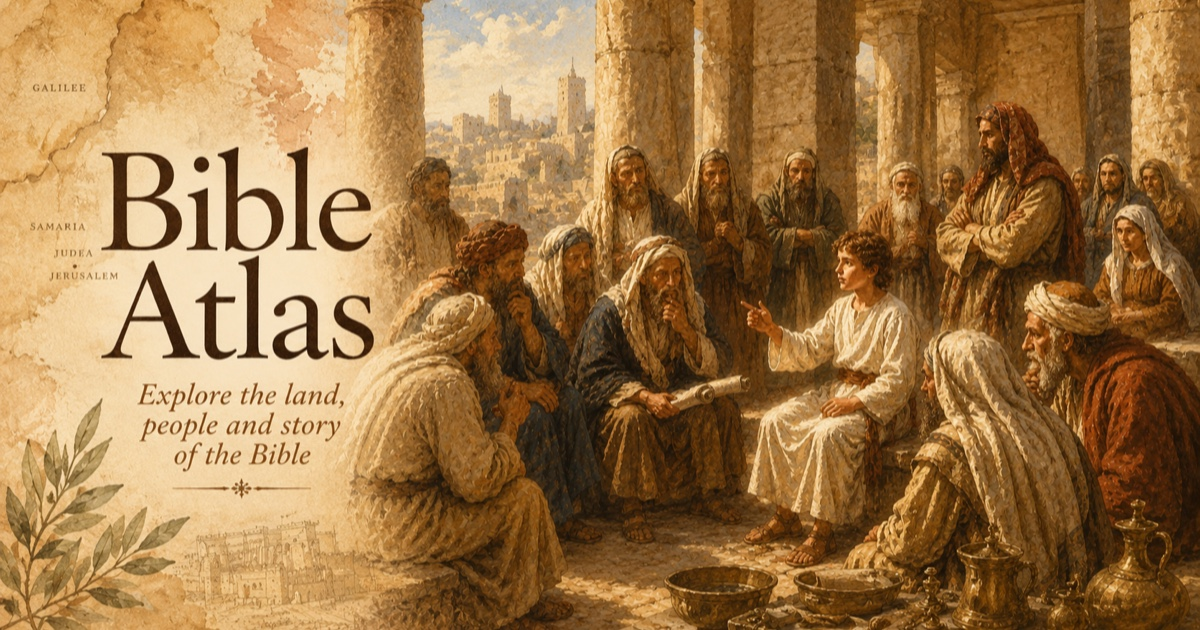
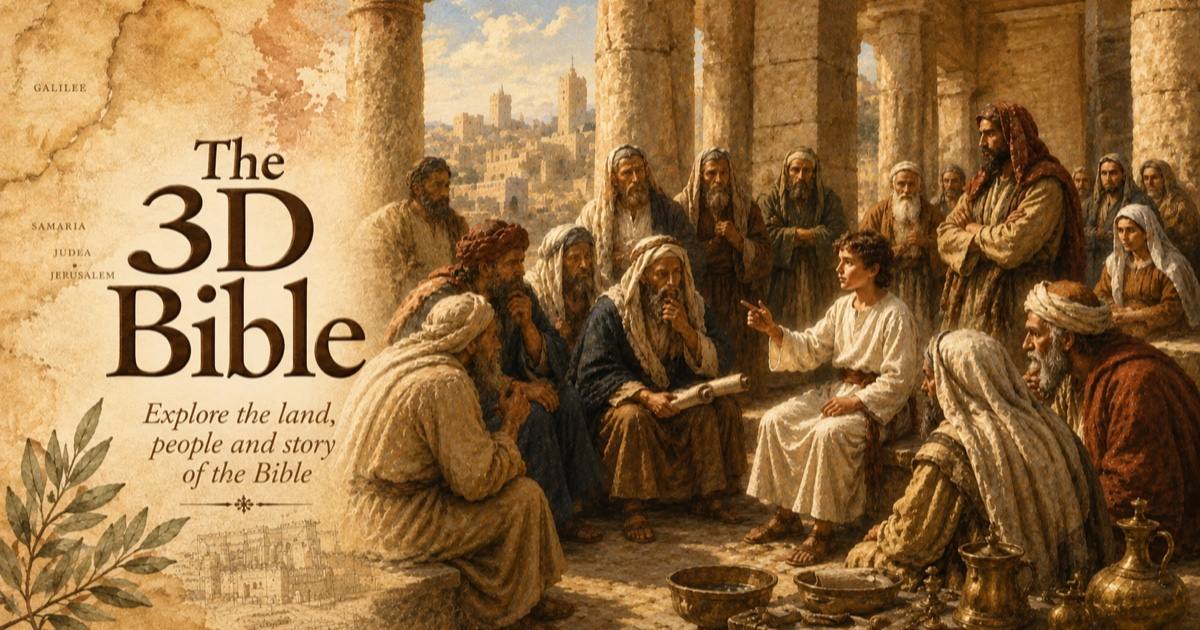
Update link preview image to new The 3D Bible cover
Replace og-cover.jpg with the rebranded illustration and update
alt text to match the new title text in the image.

diff --git a/index.html b/index.html
@@ -21,7 +21,7 @@
     <meta property="og:image:type" content="image/jpeg" />
     <meta property="og:image:width" content="1200" />
     <meta property="og:image:height" content="630" />
-    <meta property="og:image:alt" content="An illustrated painting of the young Jesus teaching among the elders in the temple, set on aged parchment with a map of Galilee, Samaria, and Judea, beside the words Bible Atlas." />
+    <meta property="og:image:alt" content="An illustrated painting of the young Jesus teaching among the elders in the temple, set on aged parchment with a map of Galilee, Samaria, and Judea, beside the words The 3D Bible." />
     <meta property="og:locale" content="en_US" />
 
     <meta name="twitter:card" content="summary_large_image" />
@@ -31,7 +31,7 @@
       content="Explore the structures of the Bible. Biblical buildings in interactive 3D — study each structure, read the Scripture, and understand how God's people worshipped."
     />
     <meta name="twitter:image" content="https://ritchieolthuis.github.io/Bible-atlas/og-cover.jpg" />
-    <meta name="twitter:image:alt" content="An illustrated painting of the young Jesus teaching among the elders in the temple, set on aged parchment with a map of Galilee, Samaria, and Judea, beside the words Bible Atlas." />
+    <meta name="twitter:image:alt" content="An illustrated painting of the young Jesus teaching among the elders in the temple, set on aged parchment with a map of Galilee, Samaria, and Judea, beside the words The 3D Bible." />
 
     <meta name="theme-color" content="#3C5E70" />
     <link rel="preconnect" href="https://fonts.googleapis.com" />
